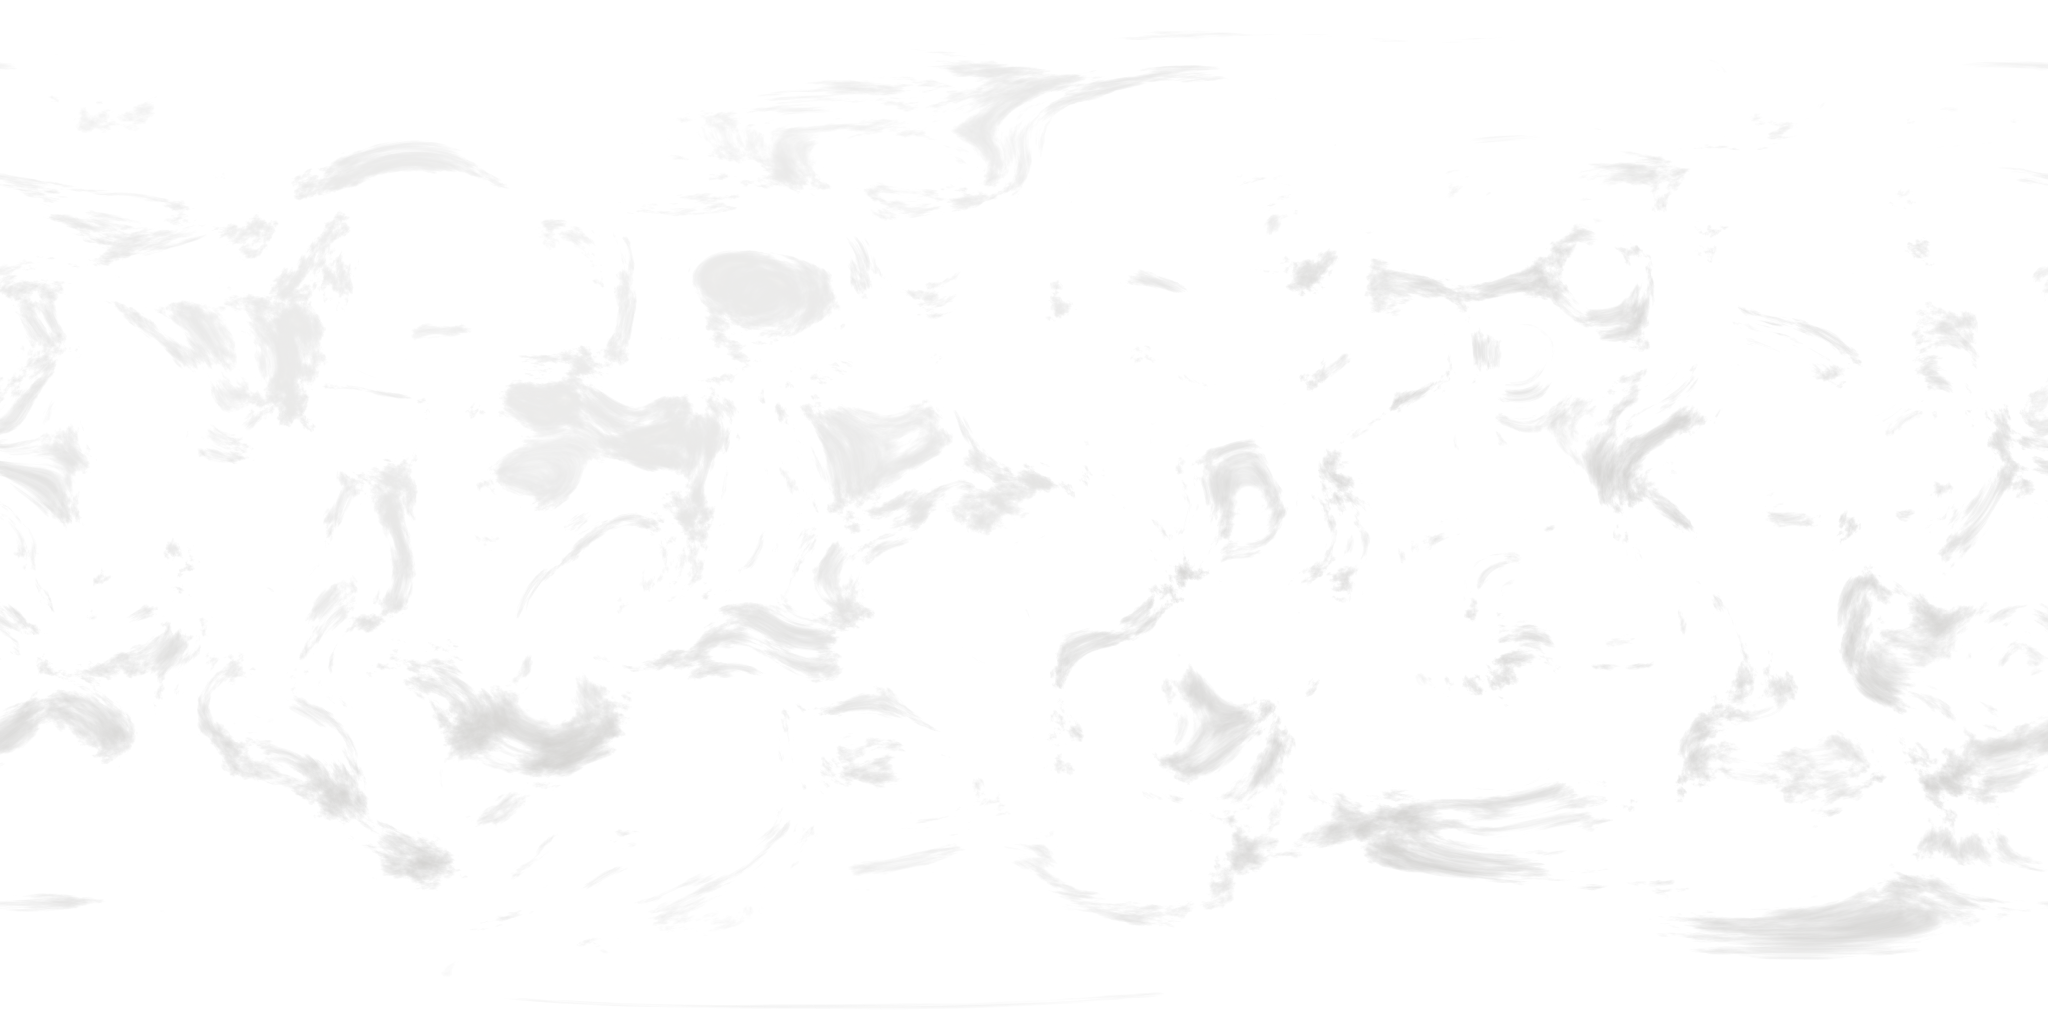
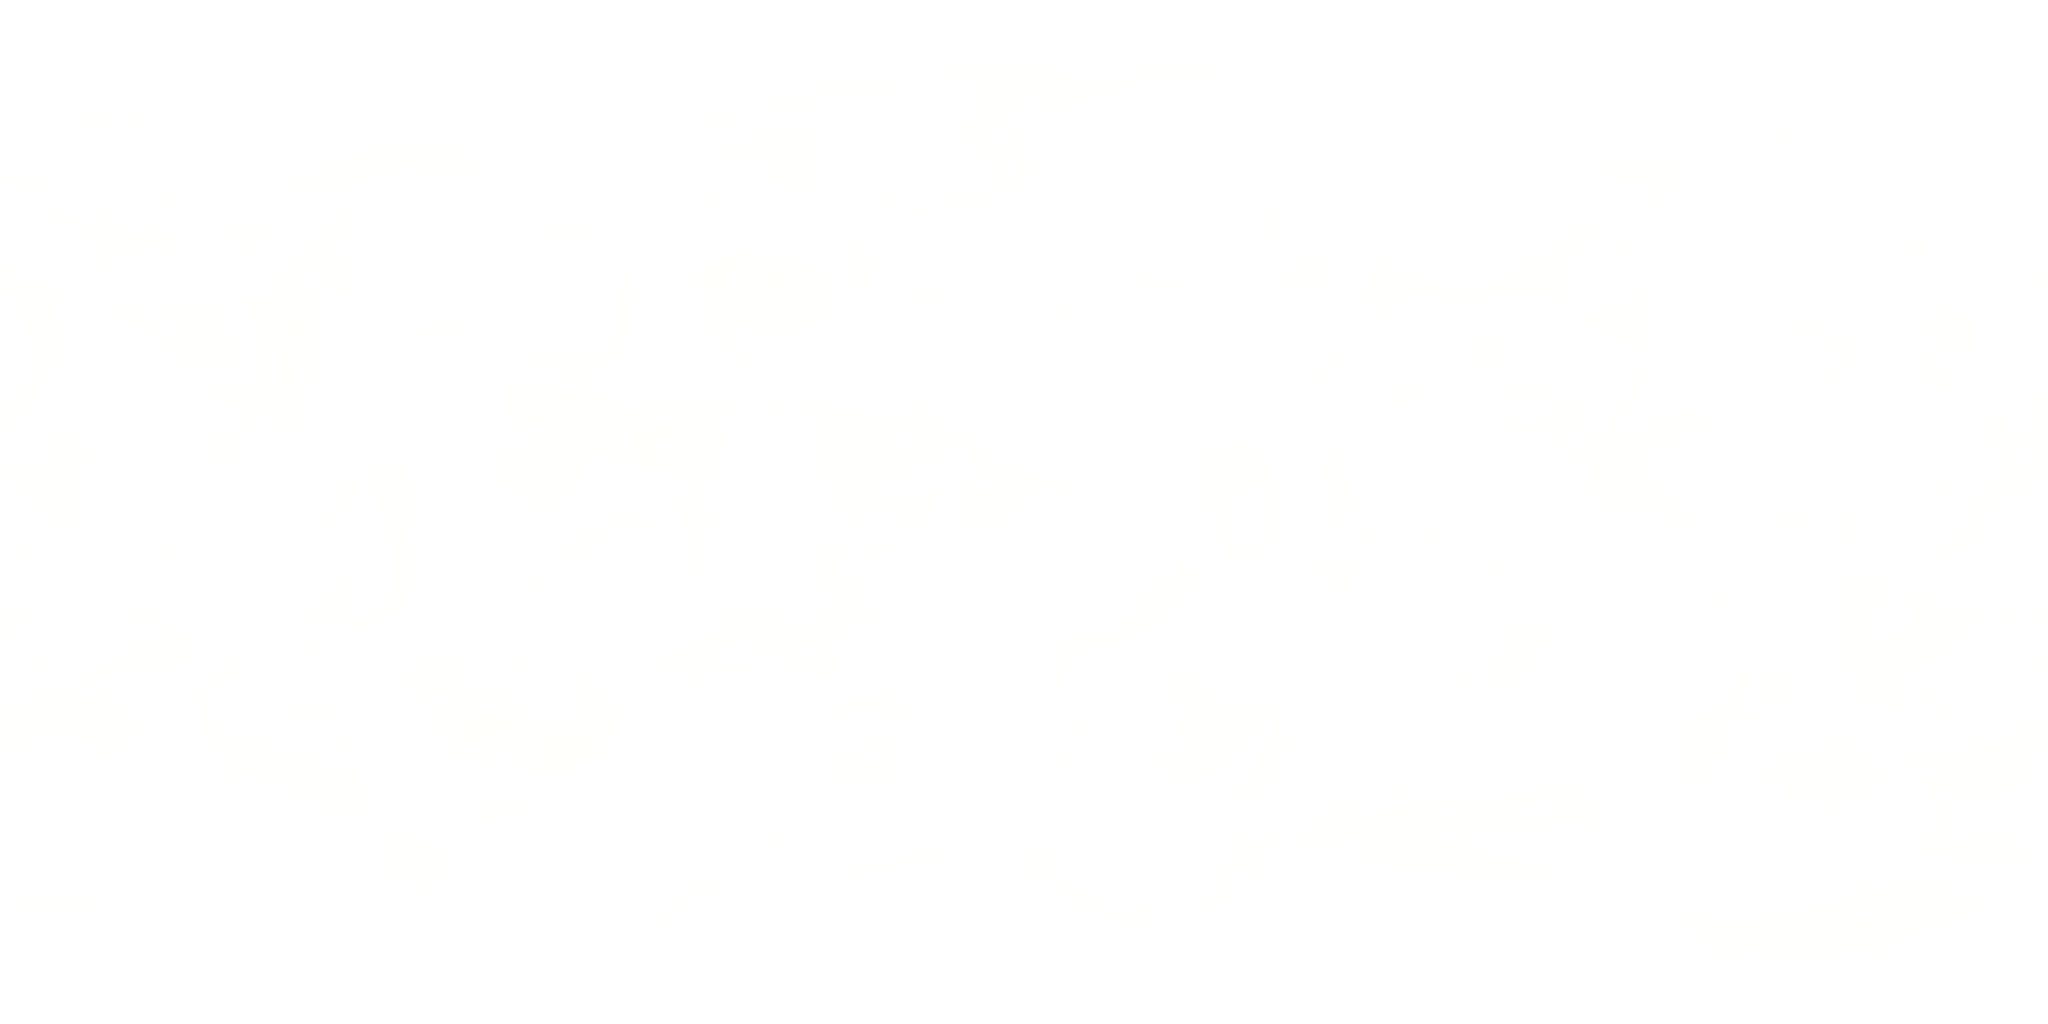
Fix three real bugs: broken south pole bake, invisible clouds, camera clipping
Direct feedback after the Blender-sourced globe shipped: a big gray/tan
blob near the south pole with country labels sitting on it, no visible
clouds at all, and terrain (specifically called out: the Himalayas)
getting cut off at the globe's edge while dragging.

The gray blob: the Cycles bake of the real procedural EarthMat material
produced completely flat, featureless gray for roughly the bottom 11% of
the texture (v > ~0.89, which on an equirectangular map is a huge chunk
of the actual sphere surface near the pole) — confirmed by sampling
pixels across every longitude at that latitude band, all uniform gray,
vs. the north pole's clean baked ice cap. Almost certainly a shader
singularity: EarthMat's bump nodes read UV-space derivatives, which blow
up exactly at a UV pole. Patched by mirroring the (good) north pole bake
into the broken region with a blended seam — the menu has no pins south
of the equator, so this is purely decorative sky/ice territory, not
anything a user taps on.

The missing clouds: not a bug exactly — the baked alpha was real but
extremely faint (mean ~1.5%, max ~44%), too subtle to read as "clouds"
against the busy earth texture underneath. Boosted the alpha curve
(suppressing near-zero noise so empty sky stays fully transparent,
raising the real wisps to be clearly visible) and replaced the RGB with
flat clean white — the original bake's cloud color had a brownish tint
in low-alpha fringe pixels that became visible once boosted and read as
[…]

diff --git a/src/components/GlobeExplorer.web.tsx b/src/components/GlobeExplorer.web.tsx
@@ -35,7 +35,14 @@ interface Props {
 }
 
 const SPHERE_RADIUS = 1.3;
-const CAMERA_Z = 3.2;
+// Distance matters more than it looks like it should here: at the old 3.2,
+// the sphere's own angular radius (~24°) was actually *larger* than the
+// camera's half-FOV (22.5° of a 45° FOV) — the globe was wider than its
+// own camera frustum, so terrain right at the limb (this is what was
+// cutting off the Himalayas while dragging) was being clipped by the
+// camera itself, before the circular canvas mask ever got involved.
+// 3.85 gives the sphere's edge a few degrees of headroom inside the frame.
+const CAMERA_Z = 3.85;
 // How far the globe can pitch before it stops — not a full 90° so it
 // never quite flips past vertical (which reads as disorienting), but
 // close enough that both poles are fully reachable by dragging.
